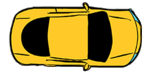
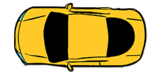
carros no sentido certo

diff --git a/assets.py b/assets.py
@@ -6,10 +6,16 @@ from config import CARRO1_HEIGHT, CARRO1_WIDTH, FROG_WIDTH, FROG_HEIGHT, IMG_DIR
 BACKGROUND = 'background'
 CARRO1_IMG = 'carro1_img'
 CARRO1_IMG = 'carro1_img'
+CARRO1re_IMG = 'carro1re_img'
+CARRO1re_IMG = 'carro1re_img'
 CARRO2_IMG = 'carro2_img'
 CARRO2_IMG = 'carro2_img'
+CARRO2re_IMG = 'carro2re_img'
+CARRO2re_IMG = 'carro2re_img'
 CARRO3_IMG = 'carro3_img'
 CARRO3_IMG = 'carro3_img'
+CARRO3re_IMG = 'carro3re_img'
+CARRO3re_IMG = 'carro3re_img'
 FROG_IMG = 'frog_img'
 FROG_IMG = 'ship_img'
 EXPLOSION_ANIM = 'explosion_anim'
@@ -22,10 +28,16 @@ def load_assets():
     assets[BACKGROUND] = pygame.image.load(os.path.join(IMG_DIR, 'Backgroundfinal.png')).convert()
     assets[CARRO1_IMG] = pygame.image.load(os.path.join(IMG_DIR, 'carro1.png')).convert_alpha()
     assets[CARRO1_IMG] = pygame.transform.scale(assets['carro1_img'], (CARRO1_WIDTH, CARRO1_HEIGHT))
+    assets[CARRO1re_IMG] = pygame.image.load(os.path.join(IMG_DIR, 'carro1 ré.png')).convert_alpha()
+    assets[CARRO1re_IMG] = pygame.transform.scale(assets['carro1re_img'], (CARRO1_WIDTH, CARRO1_HEIGHT))
     assets[CARRO2_IMG] = pygame.image.load(os.path.join(IMG_DIR, 'carro2.png')).convert_alpha()
     assets[CARRO2_IMG] = pygame.transform.scale(assets['carro2_img'], (CARRO1_WIDTH, CARRO1_HEIGHT))   
+    assets[CARRO2re_IMG] = pygame.image.load(os.path.join(IMG_DIR, 'carro2 ré.png')).convert_alpha()
+    assets[CARRO2re_IMG] = pygame.transform.scale(assets['carro2re_img'], (CARRO1_WIDTH, CARRO1_HEIGHT))
     assets[CARRO3_IMG] = pygame.image.load(os.path.join(IMG_DIR, 'carro3.png')).convert_alpha()
     assets[CARRO3_IMG] = pygame.transform.scale(assets['carro3_img'], (CARRO1_WIDTH, CARRO1_HEIGHT))
+    assets[CARRO3re_IMG] = pygame.image.load(os.path.join(IMG_DIR, 'carro3 ré.png')).convert_alpha()
+    assets[CARRO3re_IMG] = pygame.transform.scale(assets['carro3re_img'], (CARRO1_WIDTH, CARRO1_HEIGHT))
     assets[FROG_IMG] = pygame.image.load(os.path.join(IMG_DIR, 'frog1.png')).convert_alpha()
     explosion_anim = []
     for i in range(9):

diff --git a/sprites.py b/sprites.py
@@ -1,7 +1,7 @@
 import random
 import pygame
 from config import WIDTH, HEIGHT
-from assets import FROG_IMG,CARRO1_IMG,CARRO2_IMG,CARRO3_IMG, EXPLOSION_ANIM
+from assets import FROG_IMG,CARRO1_IMG,CARRO2_IMG,CARRO3_IMG,CARRO1re_IMG,CARRO2re_IMG,CARRO3re_IMG
 
 
 class Frog(pygame.sprite.Sprite):
@@ -50,12 +50,18 @@ class Carro(pygame.sprite.Sprite):
     def __init__(self, assets,rua,vel,ini):
         # Construtor da classe mãe (Sprite).
         pygame.sprite.Sprite.__init__(self)
-        if vel ==1 or vel ==-1:
+        if vel == -1:
             self.image = assets[CARRO1_IMG]
-        if vel ==2 or vel ==-2:
+        if vel == 1:
+            self.image = assets[CARRO1re_IMG]
+        if vel ==-2:
             self.image = assets[CARRO2_IMG]
-        if vel == 3 or vel == -3:
+        if vel == 2:
+            self.image = assets[CARRO3re_IMG]
+        if vel == -3 :
             self.image = assets[CARRO3_IMG]
+        if vel == 3:
+            self.image = assets[CARRO1re_IMG]
         self.mask = pygame.mask.from_surface(self.image)
         self.rect = self.image.get_rect()
         self.rect.x = ini
